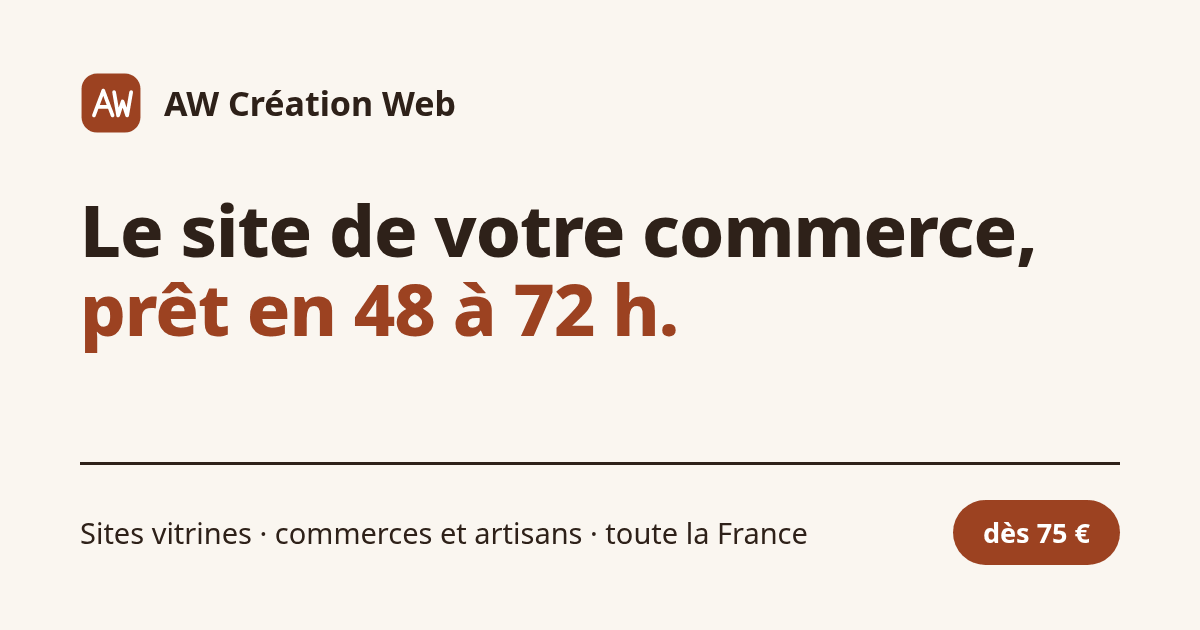
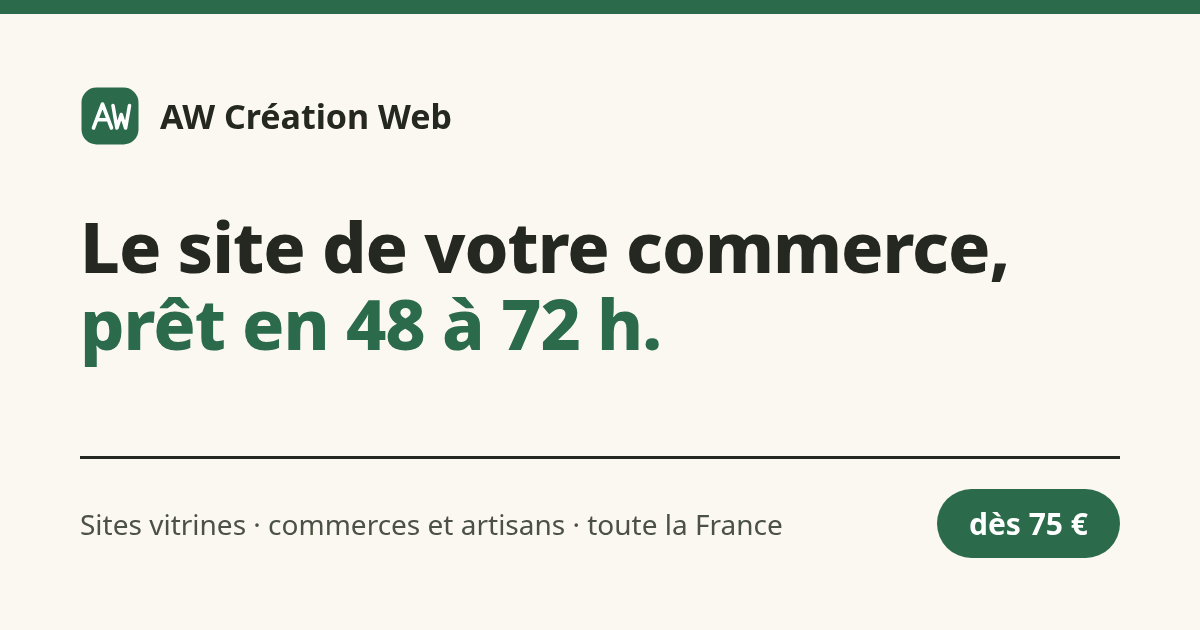
Styles et image de partage mis à jour

diff --git a/assets/style.css b/assets/style.css
@@ -80,6 +80,10 @@ section.tight{padding-top:clamp(1.5rem,4vw,3rem)}
 .lead{font-size:clamp(1.12rem,2.2vw,1.3rem);color:var(--fg);max-width:52ch;margin:0}
 .hero-foot .actions{margin-top:0}
 .hero-art{margin:3rem auto 0;max-width:760px;width:100%}
+.hero-photo{margin:2.5rem 0 0}
+.hero-photo img{display:block;width:100%;height:auto;aspect-ratio:2/1;object-fit:cover;object-position:50% 20%;border-radius:var(--radius);background:var(--soft)}
+@media (max-width:600px){.hero-photo img{aspect-ratio:3/2}}
+.credits li{margin-bottom:.6rem}
 /* Listes (style Épure) */
 .feat-list,.off-list{list-style:none;padding:0;margin:0}
 @media (min-width:640px){.feat-list{display:grid;grid-template-columns:1fr 1fr;column-gap:2.5rem}}
